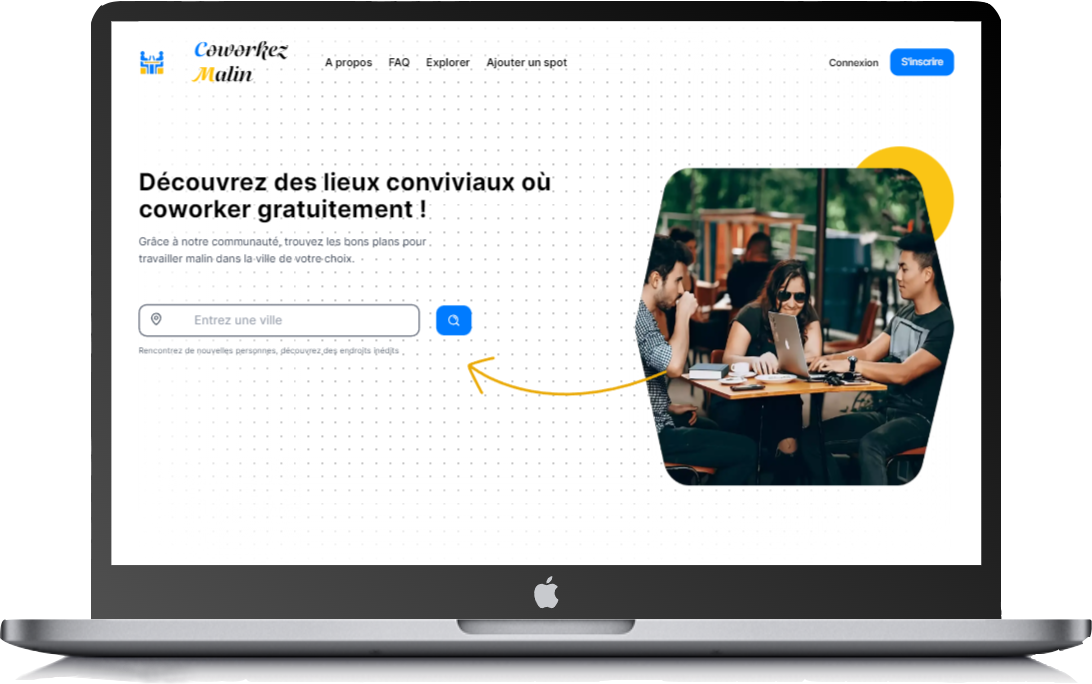
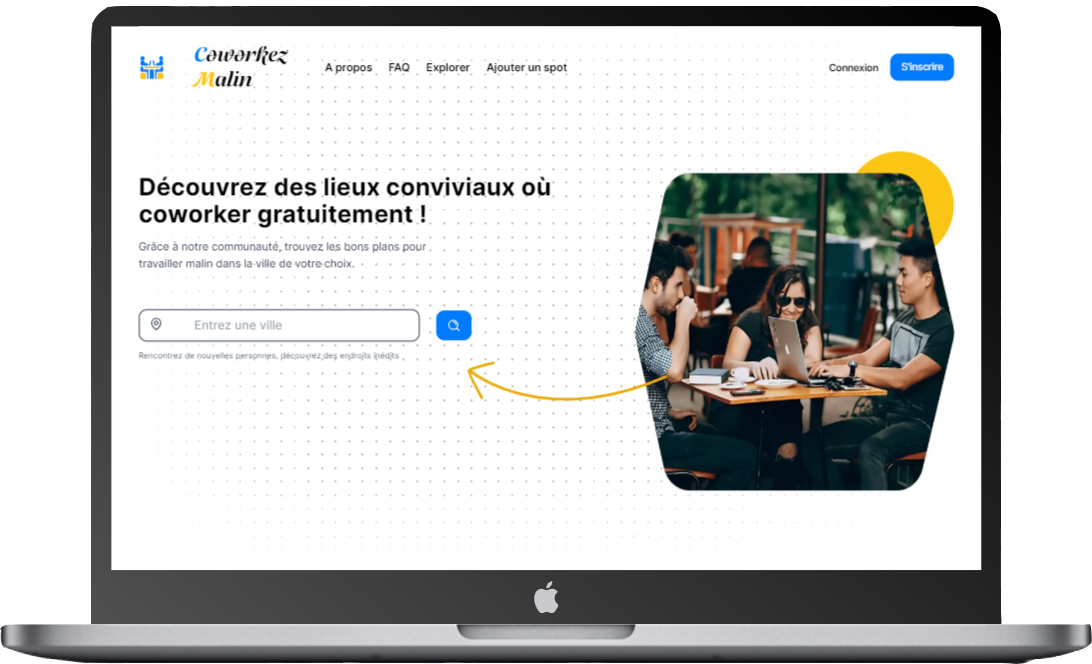
chore: change image for projects

diff --git a/src/components/Project/ProjectMockUp.tsx b/src/components/Project/ProjectMockUp.tsx
@@ -1,21 +1,54 @@
 import Image from 'next/image';
 
-const ProjectMockUp = () => {
+interface ProjectMockUpProps {
+	containerClassName: string;
+	macSrc: string;
+	macAlt: string;
+	macWidth: number;
+	macHeight: number;
+	macClassName: string;
+	iphoneSrc: string;
+	iphoneAlt: string;
+	iphoneClassName: string;
+}
+
+const ProjectMockUp = ({
+	containerClassName,
+	macSrc,
+	macAlt,
+	macWidth,
+	macHeight,
+	macClassName,
+	iphoneSrc,
+	iphoneAlt,
+	
+	iphoneClassName,
+}: ProjectMockUpProps) => {
 	return (
-		<div className='flex mt-[5vh] relative h-[55vh]  justify-center'>
+		// <div className='flex mt-[15vh] relative h-[55vh]  justify-center'>
+		<div className={containerClassName}>
 			<Image
-				src='/desktop-coworkez.png'
-				alt='my project Chiaroscuro desktop version'
-				width={1092}
-				height={684}
-                className='absolute bottom-0 -left-60'
+				src={macSrc}
+				alt={macAlt}
+				// width={1092}
+				// height={684}
+				width={macWidth}
+				height={macHeight}
+				// className='absolute bottom-0 -left-60'
+				className={macClassName}
+				priority
 			/>
 			<Image
-				src='/mobile-coworkez.png'
-				alt='my project Chiaroscuro mobile version'
+				// src='/mobile-coworkez.png'
+				// alt='my project Chiaroscuro mobile version'
 				width={538}
 				height={1146}
-				className='absolute scale-75 -bottom-52 -right-60'
+				// className='absolute scale-75 -bottom-52 -right-60'
+				src={iphoneSrc}
+				alt={iphoneAlt}
+
+				className={iphoneClassName}
+				priority
 			/>
 		</div>
 	);

diff --git a/src/components/Project.tsx b/src/components/Project.tsx
@@ -7,15 +7,36 @@ const { chiaroscuro, coworkez } = projectDetails;
 
 const Project = () => {
 	return (
-		<div className='max-w-[1200px] m-auto p-4 flex flex-col pt-[8vh] '>
+		<div className='max-w-[2200px] w-[2000px] m-auto p-4 flex flex-col pt-[8vh]  bg-red-300'>
 			<div className='flex gap-6 text-6xl font-poppins mx-auto text-gray-cool-700 font-medium'>
 				<Braces className=' text-yellow-500 lg:w-14 lg:h-14' />
 				<h2>Sélections de projets</h2>
 			</div>
-			<ProjectMockUp />
+			<ProjectMockUp
+				containerClassName='flex mt-[15vh] relative h-[55vh] justify-center'
+				macSrc='/desktop-coworkez.png'
+				macAlt='my project Chiaroscuro mobile version'
+				macWidth={1092}
+				macHeight={664}
+				macClassName='absolute bottom-0 -left-60'
+				iphoneSrc='/mobile-coworkez.png'
+				iphoneAlt='my project Chiaroscuro mobile version'
+				iphoneClassName='absolute scale-[55%] -bottom-52 -right-60'
+			/>
 			<ProjectDetails
 				categories={coworkez.categories}
 				texts={coworkez.texts}
+			/>
+			<ProjectMockUp
+				containerClassName='flex mt-[15vh] relative h-[55vh]  justify-center'
+				macSrc='/desktop-chiaroscuro.png'
+				macAlt='my project Chiaroscuro mobile version'
+				macWidth={1117}
+				macHeight={664}
+				macClassName='absolute bottom-0 -left-60'
+				iphoneSrc='/mobile-chiaroscuro.png'
+				iphoneAlt='my project Chiaroscuro mobile version'
+				iphoneClassName='absolute scale-[55%] -bottom-52 -right-60'
 			/>
 			<ProjectDetails
 				categories={chiaroscuro.categories}
